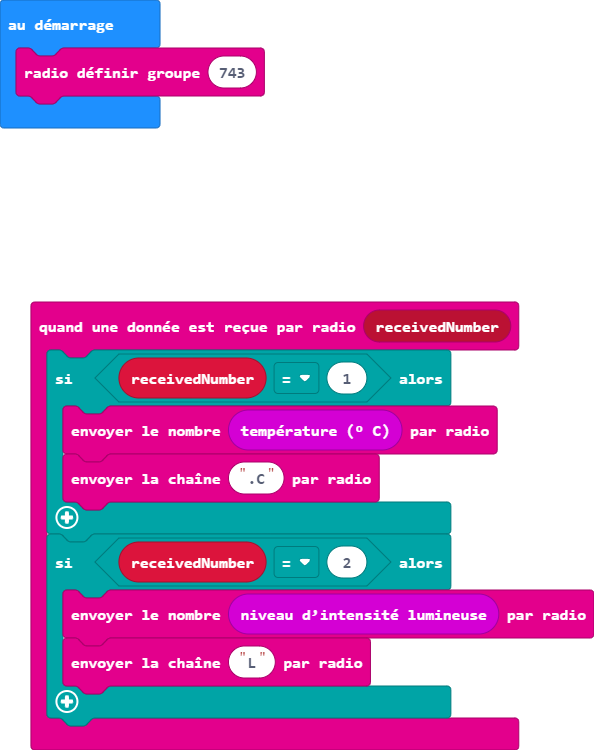
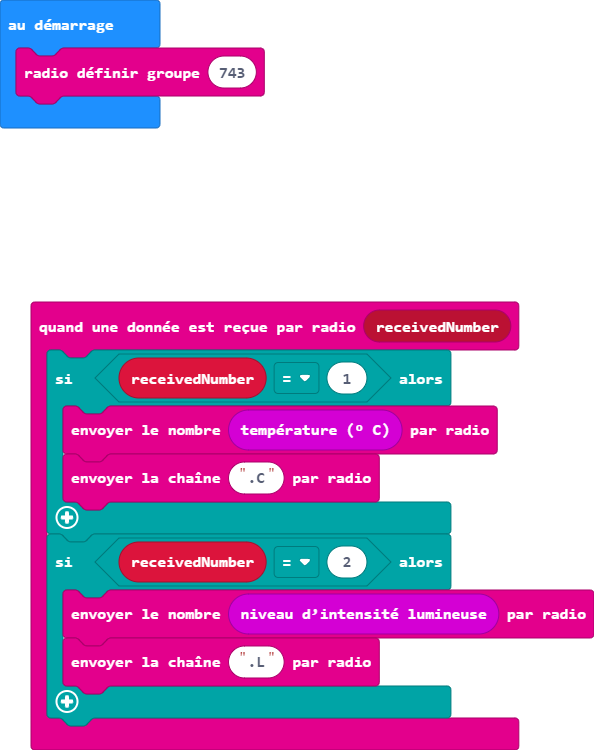
Mise à jour main.blocks, main.ts

diff --git a/main.ts b/main.ts
@@ -5,7 +5,7 @@ radio.onReceivedNumber(function (receivedNumber) {
     }
     if (receivedNumber == 2) {
         radio.sendNumber(input.lightLevel())
-        radio.sendString("L")
+        radio.sendString(".L")
     }
 })
 radio.setGroup(743)
